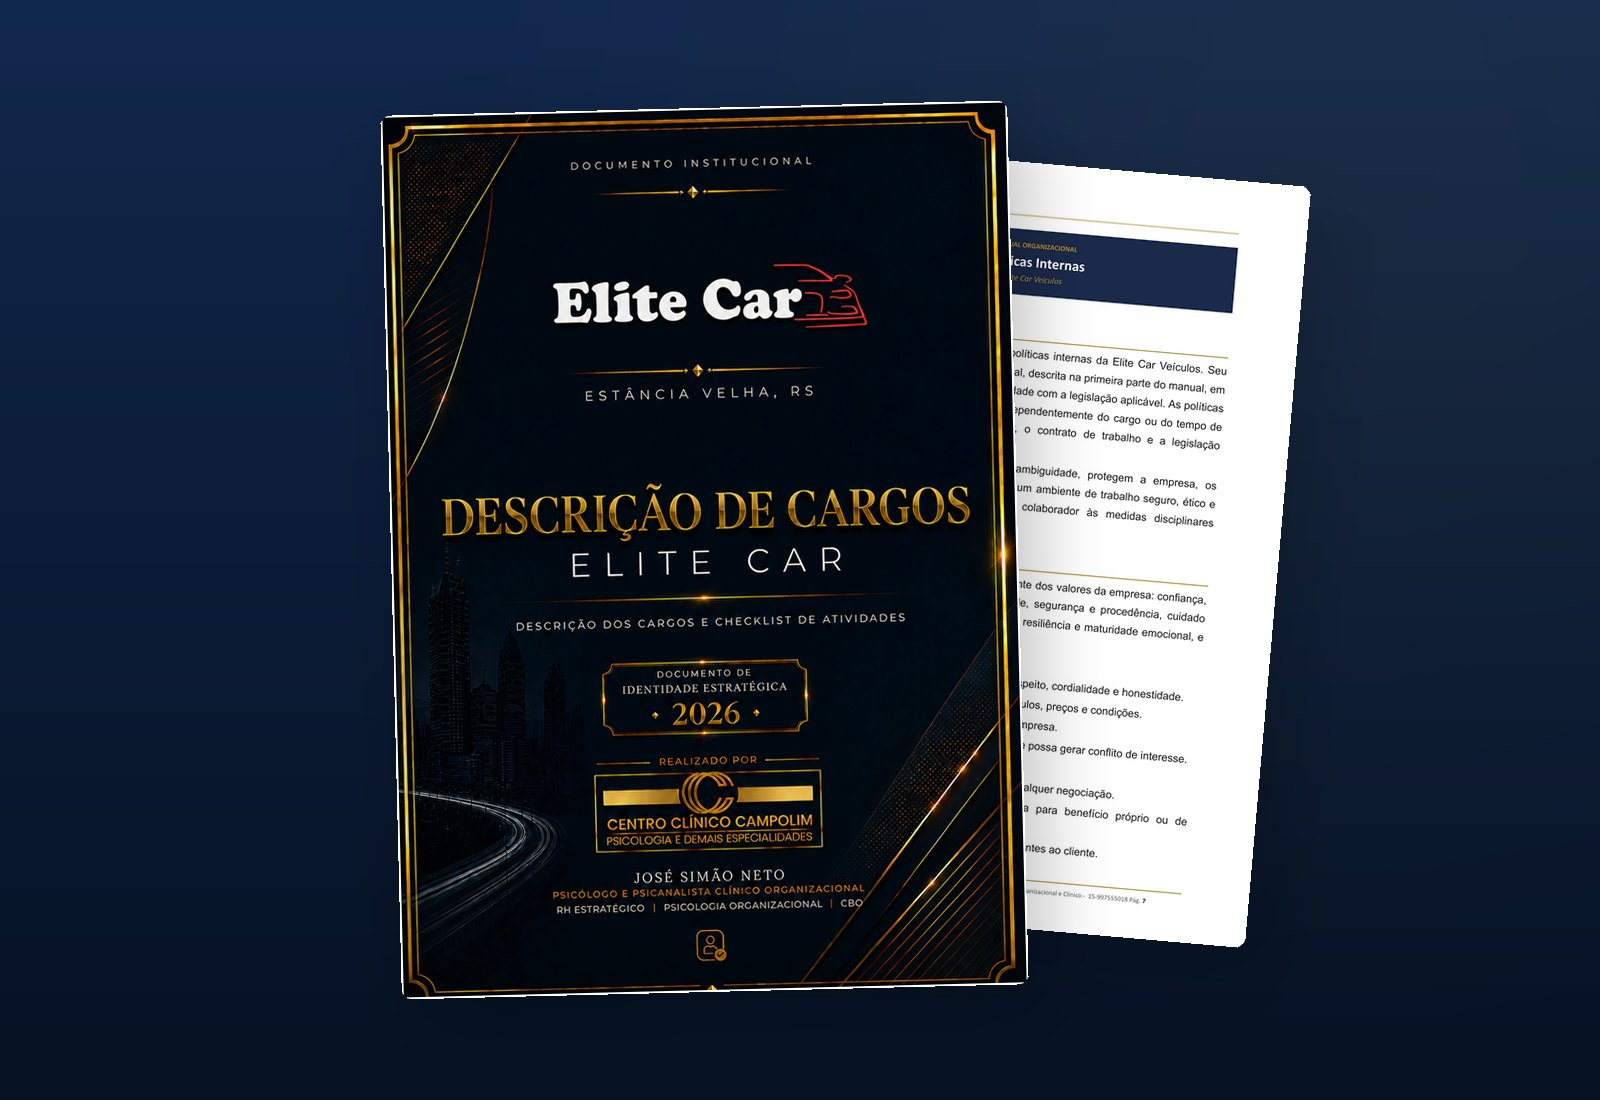
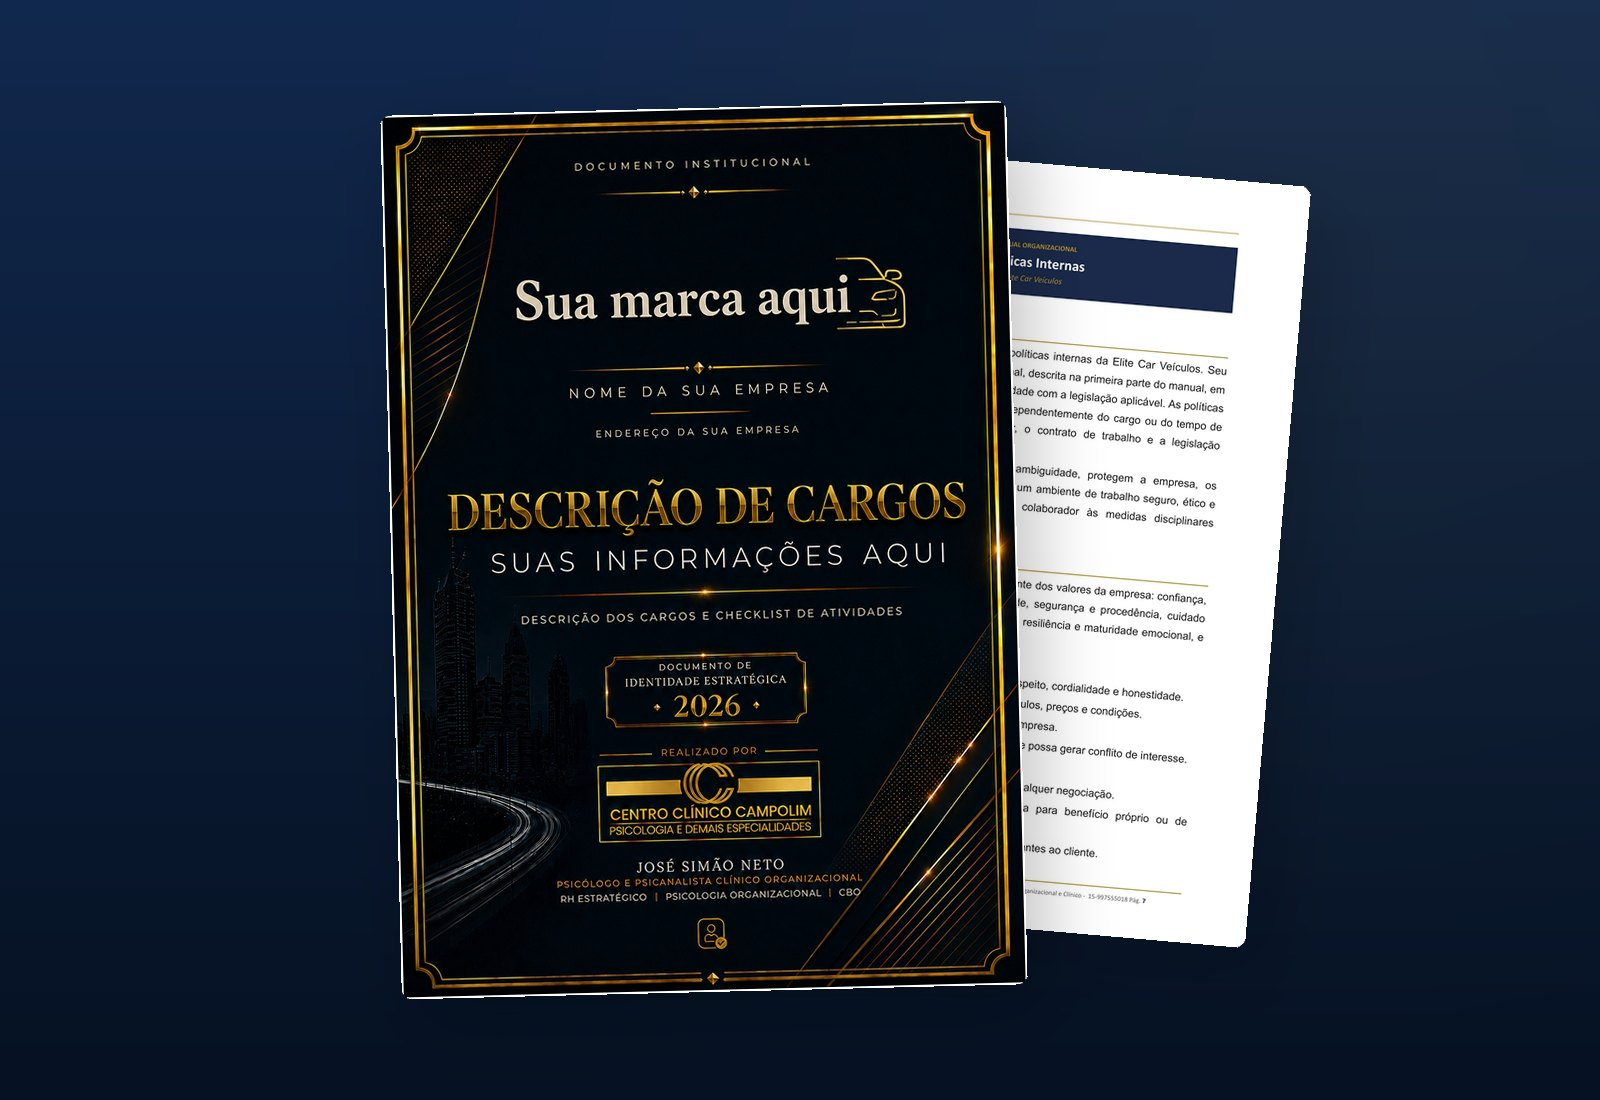
Capa generica no lugar da capa que expunha o cliente
A capa "Sua marca aqui" substitui a capa da Elite Car nos mockups. Alem de
resolver a exposicao do cliente, vende melhor: quem olha imagina a propria
marca no lugar.

Ao trocar, notei que o hero-manual.jpg tinha ficado orfao desde que as artes
de divulgacao passaram a ocupar o topo: nao era referenciado por nenhuma
pagina, so pelo sitemap. Refiz o leque no formato do showcase (mk-leque.jpg),
coloquei como primeiro slide dos entregaveis e corrigi o sitemap.

Changed region(s): [[0.2188, 0.0927, 0.6562, 0.9273]]

diff --git a/index.html b/index.html
@@ -31,7 +31,7 @@
 <link rel="preconnect" href="https://fonts.googleapis.com">
 <link rel="preconnect" href="https://fonts.gstatic.com" crossorigin>
 <link rel="stylesheet" href="https://fonts.googleapis.com/css2?family=Cormorant+Garamond:ital,wght@0,400;0,500;0,600;0,700;1,400;1,600&family=Inter:wght@300;400;500;600;700&display=swap">
-<link rel="stylesheet" href="styles.css?v=9">
+<link rel="stylesheet" href="styles.css?v=10">
 
 <script type="application/ld+json">
 {
@@ -972,7 +972,8 @@
 
       <div data-anim="fade-left">
         <div class="showcase" data-showcase="4200">
-          <figure class="showcase__img is-active" style="background-image:url('imagens/mk-capa.jpg')" role="img" aria-label="Capa de um manual organizacional impresso, com identidade visual própria"></figure>
+          <figure class="showcase__img is-active" style="background-image:url('imagens/mk-leque.jpg')" role="img" aria-label="O manual impresso: capa, descrição de cargo e a tabela de valores"></figure>
+          <figure class="showcase__img" style="background-image:url('imagens/mk-capa.jpg')" role="img" aria-label="Capa de um manual organizacional impresso, com identidade visual própria"></figure>
           <figure class="showcase__img" style="background-image:url('imagens/mk-missao-valores.jpg')" role="img" aria-label="Páginas de missão, visão e a tabela dos oito valores da empresa"></figure>
           <figure class="showcase__img" style="background-image:url('imagens/mk-cargos.jpg')" role="img" aria-label="Descrição de cargo com classificação CBO e o checklist de rotina do cargo"></figure>
           <figure class="showcase__img" style="background-image:url('imagens/mk-politicas.jpg')" role="img" aria-label="Páginas de políticas internas, com conduta, ética e jornada de trabalho"></figure>
@@ -1445,6 +1446,6 @@
   <svg viewBox="0 0 24 24" fill="currentColor"><path d="M12.04 2C6.58 2 2.13 6.45 2.13 11.91c0 1.75.46 3.45 1.32 4.95L2 22l5.25-1.38a9.9 9.9 0 0 0 4.79 1.22h.01c5.46 0 9.91-4.45 9.91-9.91C21.96 6.45 17.5 2 12.04 2Zm5.8 14.06c-.24.68-1.42 1.31-1.96 1.36-.5.05-1.14.07-1.83-.11-.42-.11-.97-.29-1.67-.59-2.94-1.27-4.86-4.23-5.01-4.43-.15-.2-1.2-1.59-1.2-3.03 0-1.44.76-2.15 1.03-2.44.27-.29.59-.37.78-.37h.56c.18 0 .42-.07.66.5.24.59.83 2.03.9 2.18.07.15.12.32.02.51-.1.2-.15.32-.29.49-.15.17-.31.38-.44.51-.15.15-.3.31-.13.6.17.29.76 1.25 1.63 2.03 1.12 1 2.06 1.31 2.35 1.46.29.15.46.12.63-.07.17-.2.73-.85.92-1.14.2-.29.39-.24.66-.15.27.1 1.71.81 2 .95.29.15.49.22.56.34.07.12.07.71-.17 1.39Z"/></svg>
 </a>
 
-<script src="script.js?v=9"></script>
+<script src="script.js?v=10"></script>
 </body>
 </html>

diff --git a/LEIA-ME.md b/LEIA-ME.md
@@ -90,14 +90,25 @@ manual-empresas/sitemap.xml
 
 ---
 
-## ⚠ Um ponto para você decidir
+## ⚠ Um ponto que ainda merece atenção
 
-As imagens do showcase são **páginas reais do manual da Elite Car**, e os cabeçalhos
-e rodapés trazem o nome da empresa e a cidade. Não há dado pessoal de colaborador nem
-valor de salário nas páginas escolhidas, mas o documento é interno do cliente.
+A **capa** já foi trocada pela versão genérica ("Sua marca aqui"), então o cliente
+não aparece mais na imagem principal.
 
-Vale confirmar com eles antes de publicar. Se preferir, eu regero os mockups com o
-nome da empresa borrado ou substituído por um nome fictício — a estrutura, as tabelas
+Mas as **páginas internas** dos mockups continuam sendo páginas reais do manual da
+Elite Car, e os cabeçalhos e rodapés ainda trazem o nome da empresa e a cidade:
+
+| Imagem | Onde o nome aparece |
+|---|---|
+| `mk-leque.jpg` | rodapé das duas páginas atrás da capa |
+| `mk-capa.jpg` | cabeçalho da página que espia atrás |
+| `mk-missao-valores.jpg` | rodapé das duas páginas |
+| `mk-cargos.jpg` | cabeçalho e rodapé das duas páginas |
+| `mk-politicas.jpg` | cabeçalho e rodapé das duas páginas |
+
+Não há dado pessoal de colaborador nem valor de salário nas páginas escolhidas.
+Ainda assim, com o lightbox a pessoa consegue ampliar e ler. Se quiser, eu regero
+essas quatro com o nome borrado ou trocado por um fictício — a estrutura, as tabelas
 e a diagramação continuam aparecendo, que é o que vende.
 
 ---
@@ -135,11 +146,14 @@ sobre o fundo azul-marinho do site, com sombra e leve inclinação, como um manu
 
 | Arquivo | O que mostra | Onde aparece |
 |---|---|---|
-| `hero-manual.jpg` | Três páginas em leque: a capa preta e dourada, a descrição de cargo e os valores | Topo do site |
-| `mk-capa.jpg` | Capa preta e dourada do documento, com o logo do Centro Clínico | Showcase, 1º |
-| `mk-missao-valores.jpg` | Missão e visão + a tabela dos 8 valores | Showcase, 2º |
-| `mk-cargos.jpg` | Descrição de cargo com CBO + checklist de rotina | Showcase, 3º |
-| `mk-politicas.jpg` | Políticas internas, conduta e ética | Showcase, 4º |
+| `mk-leque.jpg` | Três páginas em leque: capa, descrição de cargo e valores | Showcase, 1º |
+| `mk-capa.jpg` | A capa sozinha, com uma página espiando atrás | Showcase, 2º |
+| `mk-missao-valores.jpg` | Missão e visão + a tabela dos 8 valores | Showcase, 3º |
+| `mk-cargos.jpg` | Descrição de cargo com CBO + checklist de rotina | Showcase, 4º |
+| `mk-politicas.jpg` | Políticas internas, conduta e ética | Showcase, 5º |
+
+A capa usada é a versão **"Sua marca aqui"**, que vende melhor do que a de um cliente:
+quem olha imagina a própria marca ali.
 
 **Para regerar com outras páginas:** os mockups saem de um script que renderiza o PDF
 e compõe a arte. Me diga quais páginas quer no lugar e eu refaço.
@@ -223,6 +237,6 @@ tudo já revelado. É o comportamento correto de acessibilidade.
 
 ## Cache ao atualizar
 
-O CSS e o JS são chamados com `?v=9`. Ao editar esses arquivos, **suba esse número**
+O CSS e o JS são chamados com `?v=10`. Ao editar esses arquivos, **suba esse número**
 (`?v=6`, `?v=7`…) nas duas linhas do `index.html`, senão o navegador de quem já visitou
 continua servindo a versão antiga.
